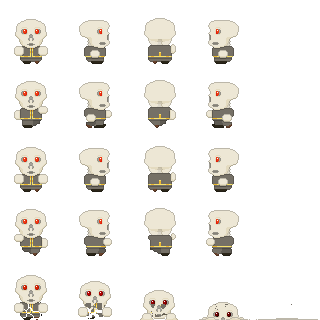
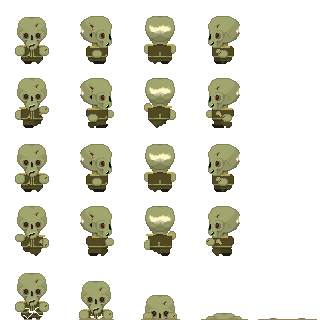
update skeleton sprite add seasonal lighting fix missing name tag on player 4 fix thundercloud callback on non-local players

diff --git a/did/src/GameState.cpp b/did/src/GameState.cpp
@@ -67,6 +67,7 @@ Copyright 2019 Matt Marchant
 #include "Packet.hpp"
 
 #include <xyginext/core/App.hpp>
+#include <xyginext/core/SysTime.hpp>
 
 #include <xyginext/ecs/components/Transform.hpp>
 #include <xyginext/ecs/components/Camera.hpp>
@@ -905,7 +906,14 @@ void GameState::loadResources()
         spriteSheet.getAnimationIndex("dig", "poopsnail")
     };
 
-    spriteSheet.loadFromFile("assets/sprites/lantern.spt", m_textureResource);
+    if (xy::SysTime::now().months() == 10)
+    {
+        spriteSheet.loadFromFile("assets/sprites/pumpkin.spt", m_textureResource);
+    }
+    else
+    {
+        spriteSheet.loadFromFile("assets/sprites/lantern.spt", m_textureResource);
+    }
     m_sprites[SpriteID::Lantern] = spriteSheet.getSprite("lantern");
     auto id = spriteSheet.getAnimationIndex("flicker", "lantern");
     m_animationMaps[SpriteID::Lantern] = { id };
@@ -1908,7 +1916,7 @@ void GameState::spawnCurseIcon(xy::Entity parent, std::uint16_t id)
             }
             break;
         case CurseIconData::Active:
-            if (data.parent.getComponent<Player>().sync.state == Player::Dead)
+            if (data.parent.getComponent<xy::Transform>().getScale().x < 0.5f)
             {
                 m_gameScene.destroyEntity(e);
             }

diff --git a/did/src/GameActorFactory.cpp b/did/src/GameActorFactory.cpp
@@ -328,6 +328,7 @@ void GameState::spawnActor(Actor actor, sf::Vector2f position, std::int32_t time
         entity.addComponent<xy::AudioEmitter>() = m_audioScape.getEmitter("walk");
         entity.addComponent<BroadcastComponent>();
         hasWeapon = true;
+        addNameTag(entity);
         addShadow(entity);
         addSpawnPuff(entity);
         break;

diff --git a/did/buildnumber.hpp b/did/buildnumber.hpp
@@ -1,3 +1,3 @@
 #pragma once
-#define BUILDNUMBER 4958
-#define BUILDNUMBER_STR "4958"
+#define BUILDNUMBER 4959
+#define BUILDNUMBER_STR "4959"

diff --git a/readme.md b/readme.md
@@ -62,4 +62,4 @@ The frontend project and OSGC plugin template source files are licensed under th
 
 Many Thanks
 -----------
-OSGC is a collaborative project, which couldn't exist without the contribution of others either directly or indirectly via sites like [Open Game Art](https://opengameart.org), [Freesound](https://freesound.org) or [Looperman](https://looperman.com), or through the awesome gamedev communities on the internet. I try to credit every resource I can, usually through the use of `credits.txt` files in a particular project's directory, though some may slip through the net! If you feel I have a missed a credit somewhere then please leave an issue on the Github tracker or even submit a pull request. A particular mention should go to (@sadface_RL)[https://twitter.com/Sadface_RL] for his excellent pixel art tutorials, [@ryanmusicco](https://twitter.com/RyanMusicCo) for his wonderful compositions and the lovely chaps and chapesses over at #sfml for their feedback and support. Do go check them out!
+OSGC is a collaborative project, which couldn't exist without the contribution of others either directly or indirectly via sites like [Open Game Art](https://opengameart.org), [Freesound](https://freesound.org) or [Looperman](https://looperman.com), or through the awesome gamedev communities on the internet. I try to credit every resource I can, usually through the use of `credits.txt` files in a particular project's directory, though some may slip through the net! If you feel I have a missed a credit somewhere then please leave an issue on the Github tracker or even submit a pull request. A particular mention should go to [@sadface_RL](https://twitter.com/Sadface_RL) for his excellent pixel art tutorials, [@ryanmusicco](https://twitter.com/RyanMusicCo) for his wonderful compositions and the lovely chaps and chapesses over at #sfml for their feedback and support. Do go check them out!

diff --git a/did/readme.md b/did/readme.md
@@ -57,8 +57,9 @@ When in a lobby as either a host or a guest, make sure to check the 'Ready' butt
 ###### Console Commands
 While the game is running there are a few console commands available. Open the console by pressing F1 and enter the following:
 
-    set_storm 0,1,2 - sets weather to nice, rain or storm (host only)
-    bots_enabled 0, 1 - enable server side bots (host only)
+    set_storm <0,1,2> - sets weather to nice, rain or storm (host only)
+    bots_enabled <0,1> - enable server side bots (host only)
+    seed - shows the current map seed
     spawn <item> - spawns the given item at the player’s position (host only)
         decoy_item
         decoy
@@ -68,6 +69,5 @@ While the game is running there are a few console commands available. Open the c
         skull_item
         skull_shield
         mine_item
-        seed - shows the current map seed
-
+    
 Note some of the above commands are only available to the current game host. For a list of available commands at run time type `help`.
